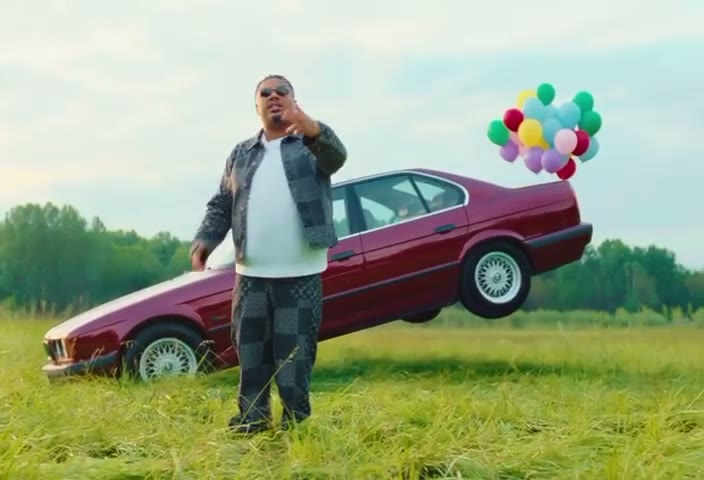
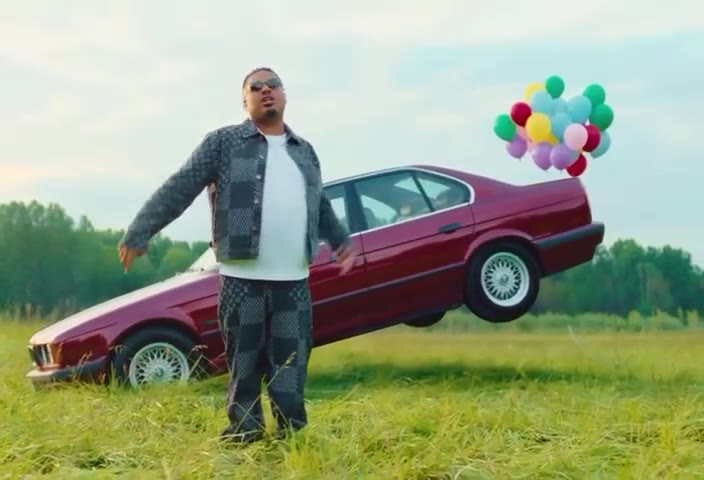
Vignettes recalees sur le format des clips

Changed region(s): [[0.0, 0.125, 1.0, 1.0]]

diff --git a/films.html b/films.html
@@ -179,49 +179,49 @@ body[data-ciel="nuit"] .wordmark .lg-white{display:block}
   <div class="mosaic">
     <div class="col">
       <a class="film s100" href="https://www.youtube.com/watch?v=sJsOpYqBeuk" target="_blank" rel="noopener">
-        <span class="media"><img src="assets/stills/keblack_bababa.jpg?v=8" alt=""><video src="assets/videos/keblack_bababa.mp4?v=8" poster="assets/stills/keblack_bababa.jpg?v=8" muted loop playsinline preload="metadata"></video></span>
+        <span class="media"><img src="assets/stills/keblack_bababa.jpg?v=12" alt=""><video src="assets/videos/keblack_bababa.mp4?v=8" poster="assets/stills/keblack_bababa.jpg?v=12" muted loop playsinline preload="metadata"></video></span>
         <figcaption><span class="who">Keblack</span><span class="what">Bababa</span></figcaption>
       </a>
 
       <a class="film s70 r" href="https://www.youtube.com/watch?v=78hQVC5njKc" target="_blank" rel="noopener">
-        <span class="media"><img src="assets/boulot.jpg?v=3" alt=""><video src="assets/videos/boulot.mp4?v=8" poster="assets/boulot.jpg?v=3" muted loop playsinline preload="metadata"></video></span>
+        <span class="media"><img src="assets/stills/boulot.jpg?v=12" alt=""><video src="assets/videos/boulot.mp4?v=8" poster="assets/stills/boulot.jpg?v=12" muted loop playsinline preload="metadata"></video></span>
         <figcaption><span class="who">Keblack ft. SDM</span><span class="what">Boulot</span></figcaption>
       </a>
 
       <a class="film s92" href="https://www.youtube.com/watch?v=FlmtZVgEn6M" target="_blank" rel="noopener">
-        <span class="media"><img src="assets/stills/quille.jpg?v=8" alt=""><video src="assets/videos/quille.mp4?v=8" poster="assets/stills/quille.jpg?v=8" muted loop playsinline preload="metadata"></video></span>
+        <span class="media"><img src="assets/stills/quille.jpg?v=12" alt=""><video src="assets/videos/quille.mp4?v=8" poster="assets/stills/quille.jpg?v=12" muted loop playsinline preload="metadata"></video></span>
         <figcaption><span class="who">Naza ft. Ninho</span><span class="what">Quillé</span></figcaption>
       </a>
 
       <a class="film s86 r" href="https://www.youtube.com/watch?v=z-NidfueX3g" target="_blank" rel="noopener">
-        <span class="media"><img src="assets/stills/focus.jpg?v=3" alt=""><video src="assets/videos/focus.mp4?v=1" poster="assets/stills/focus.jpg?v=3" muted loop playsinline preload="metadata"></video></span>
+        <span class="media"><img src="assets/stills/focus.jpg?v=12" alt=""><video src="assets/videos/focus.mp4?v=1" poster="assets/stills/focus.jpg?v=12" muted loop playsinline preload="metadata"></video></span>
         <figcaption><span class="who">Keblack</span><span class="what">Focus, teaser de l’album</span></figcaption>
       </a>
     </div>
 
     <div class="col two">
       <a class="film s64" href="https://www.youtube.com/watch?v=dxnacr0NriQ" target="_blank" rel="noopener">
-        <span class="media"><img src="assets/melrose.jpg?v=4" alt=""><video src="assets/videos/melrose.mp4?v=9" poster="assets/melrose.jpg?v=4" muted loop playsinline preload="metadata"></video></span>
+        <span class="media"><img src="assets/stills/melrose.jpg?v=12" alt=""><video src="assets/videos/melrose.mp4?v=9" poster="assets/stills/melrose.jpg?v=12" muted loop playsinline preload="metadata"></video></span>
         <figcaption><span class="who">Keblack ft. Guy2Bezbar</span><span class="what">Melrose Place</span></figcaption>
       </a>
 
       <a class="film s86 r" href="https://www.youtube.com/watch?v=Bp-Yh2rY3LA" target="_blank" rel="noopener">
-        <span class="media"><img src="assets/stills/shayo.jpg?v=10" alt=""><video src="assets/videos/shayo.mp4?v=10" poster="assets/stills/shayo.jpg?v=10" muted loop playsinline preload="metadata"></video></span>
+        <span class="media"><img src="assets/stills/shayo.jpg?v=12" alt=""><video src="assets/videos/shayo.mp4?v=10" poster="assets/stills/shayo.jpg?v=12" muted loop playsinline preload="metadata"></video></span>
         <figcaption><span class="who">Heuss L’Enfoiré ft. Keblack</span><span class="what">Shayo</span></figcaption>
       </a>
 
       <a class="film s78 c" href="https://www.youtube.com/watch?v=BnHsYhudskM" target="_blank" rel="noopener">
-        <span class="media"><img src="assets/stills/handsup.jpg?v=9" alt=""><video src="assets/videos/handsup.mp4?v=9" poster="assets/stills/handsup.jpg?v=9" muted loop playsinline preload="metadata"></video></span>
+        <span class="media"><img src="assets/stills/handsup.jpg?v=12" alt=""><video src="assets/videos/handsup.mp4?v=9" poster="assets/stills/handsup.jpg?v=12" muted loop playsinline preload="metadata"></video></span>
         <figcaption><span class="who">Keblack &amp; Franglish ft. iDS</span><span class="what">Haut les mains</span></figcaption>
       </a>
 
       <a class="film s60 r" href="https://www.youtube.com/watch?v=Ow07uqhyYwo" target="_blank" rel="noopener">
-        <span class="media"><img src="assets/stills/mood.jpg?v=8" alt=""><video src="assets/videos/mood.mp4?v=8" poster="assets/stills/mood.jpg?v=8" muted loop playsinline preload="metadata"></video></span>
+        <span class="media"><img src="assets/stills/mood.jpg?v=12" alt=""><video src="assets/videos/mood.mp4?v=8" poster="assets/stills/mood.jpg?v=12" muted loop playsinline preload="metadata"></video></span>
         <figcaption><span class="who">Keblack</span><span class="what">Mood</span></figcaption>
       </a>
 
       <a class="film s78" href="https://www.youtube.com/watch?v=5ChCZ8g61TQ" target="_blank" rel="noopener">
-        <span class="media"><img src="assets/stills/une_histoire.jpg?v=8" alt=""><video src="assets/videos/une_histoire.mp4?v=8" poster="assets/stills/une_histoire.jpg?v=8" muted loop playsinline preload="metadata"></video></span>
+        <span class="media"><img src="assets/stills/une_histoire.jpg?v=12" alt=""><video src="assets/videos/une_histoire.mp4?v=8" poster="assets/stills/une_histoire.jpg?v=12" muted loop playsinline preload="metadata"></video></span>
         <figcaption><span class="who">Naza ft. Tiakola</span><span class="what">Une histoire</span></figcaption>
       </a>
     </div>
